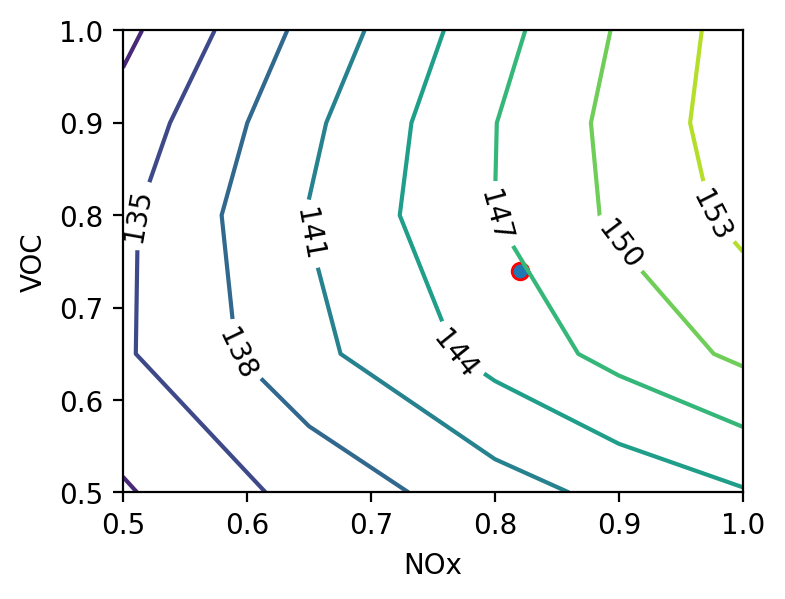
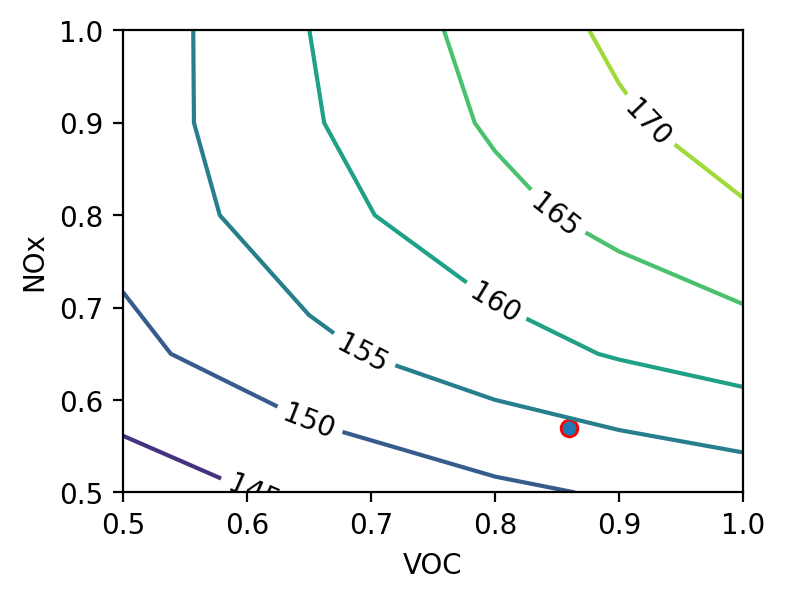
fix flex v0.1

diff --git a/main.py b/main.py
@@ -22,7 +22,7 @@ class GUI():
     # 设置窗口
     def set_init_window(self):
         self.main.title("快速评估模型v0.1")
-        w, h = 600, 700
+        w, h = 600, 640
         sw = self.main.winfo_screenwidth()
         sh = self.main.winfo_screenheight()
         x = (sw-w) // 2
@@ -61,19 +61,19 @@ class GUI():
 
         # 按钮
         self.compute_button = Button(
-            self.main, text="计算", bg="lightblue", command=self.compute)
-        self.compute_button.grid(row=3, column=0, sticky=NS)
+            self.main, text="计算绘图", bg="lightblue", command=self.compute,height=2)
+        self.compute_button.grid(row=3, column=1, rowspan=2)
 
         self.img_label = Label(self.main, text="平均MDA8", height=2)
-        self.img_label.grid(row=4, column=0, sticky=NSEW)
+        self.img_label.grid(row=5, column=0, sticky=NSEW)
 
         self.result_data_Text = Text(self.main, width=30, height=1)  # 处理结果展示
-        self.result_data_Text.grid(row=4, column=1, sticky=EW)
+        self.result_data_Text.grid(row=5, column=1, sticky=EW)
 
-        # 按钮
-        self.plot_button = Button(
-            self.main, text="绘图", bg="lightblue", command=self.plot)
-        self.plot_button.grid(row=5, column=0, sticky=NS)
+        # # 按钮
+        # self.plot_button = Button(
+        #     self.main, text="绘图", bg="lightblue", command=self.plot)
+        # self.plot_button.grid(row=5, column=0, sticky=NS)
 
         self.ekma_label = Label(self.main, text="EKMA", height=2)
         self.ekma_label.grid(row=6, column=0, rowspan=3, sticky=NSEW)
@@ -87,13 +87,13 @@ class GUI():
     # 功能函数
 
     def NOX_change(self, e):
-        self.write_log_to_Text(f"NOX比例为=>{self.NOX_scale.get()}")
+        self.write_log_to_Text(f"NOX比例为{self.NOX_scale.get()}")
 
     def VOC_change(self, e):
-        self.write_log_to_Text(f"VOC比例为=>{self.VOC_scale.get()}")
+        self.write_log_to_Text(f"VOC比例为{self.VOC_scale.get()}")
 
     def reset_mat(self, e):
-        self.write_log_to_Text(f"选择的城市为=>{self.sel_city.get()}")
+        self.write_log_to_Text(f"选择的城市为{self.sel_city.get()}")
         self.mat = None
 
     def get_city_dict(self):
@@ -112,7 +112,7 @@ class GUI():
         lat = np.loadtxt("data/lat.txt")
 
         city = self.city_dict[self.sel_city.get()]
-        self.write_log_to_Text(f"城市经纬度为=>LON:{city['LON']},LAT:{city['LAT']}")
+        self.write_log_to_Text(f"城市经纬度为LON:{city['LON']},LAT:{city['LAT']}")
         r2 = (lat - city['LAT'])**2 + (lon - city['LON'])**2
         return np.unravel_index(r2.argmin(), r2.shape)
 
@@ -135,8 +135,8 @@ class GUI():
     def compute(self):
         self.load_mat()
 
-        self.write_log_to_Text(f"NOx比例为=>{self.NOX_scale.get()}")
-        self.write_log_to_Text(f"VOX比例为=>{self.VOC_scale.get()}")
+        self.write_log_to_Text(f"NOx比例为{self.NOX_scale.get()}")
+        self.write_log_to_Text(f"VOX比例为{self.VOC_scale.get()}")
 
         interpolator = RegularGridInterpolator(
             np.array((self.NOX, self.VOC)), self.mat)
@@ -144,15 +144,16 @@ class GUI():
         res = interpolator(
             np.array([self.NOX_scale.get(), self.VOC_scale.get()]))
 
-        self.write_log_to_Text(f"计算结果为=>{res:.4f} ug/m3")
+        self.write_log_to_Text(f"计算结果为{res:.4f} ug/m3")
         self.result_data_Text.delete(1.0, END)
         self.result_data_Text.insert(1.0, f"{res:.4f} ug/m3")
+        self.plot()
 
     # 获取当前时间
 
     def get_current_time(self):
-        current_time = time.strftime(
-            '%Y-%m-%d %H:%M:%S', time.localtime(time.time()))
+        # current_time = time.strftime('%Y-%m-%d %H:%M:%S', time.localtime(time.time()))
+        current_time = time.strftime('%H:%M:%S', time.localtime(time.time()))
         return current_time
 
     def plot(self):
@@ -165,22 +166,23 @@ class GUI():
         fig = plt.figure(figsize=(4, 3))
         ax = fig.add_subplot(111)
 
-        X, Y = np.meshgrid(self.NOX, self.VOC,)
-        ct = ax.contour(X, Y, self.mat)
+        X, Y = np.meshgrid(self.VOC,self.NOX,)
+        ct = ax.contour(X,Y, self.mat)
         # plt.colorbar(ct)
-        ax.set_xlabel("NOx")
-        ax.set_ylabel("VOC")
+        ax.set_xlabel("VOC")
+        ax.set_ylabel("NOx")
 
-        ax.scatter(nox,voc,marker="o", edgecolors="red", c=None)
+        ax.scatter(voc,nox,marker="o", edgecolors="red", c=None)
+
         ax.clabel(ct, fontsize=10, colors='k', fmt="%.0f")
         plt.savefig(".ekma.png", dpi=200, bbox_inches='tight')
-        self.write_log_to_Text(f"绘图完成,加载中")
+        self.write_log_to_Text(f"绘图完成")
 
         photo = Image.open(".ekma.png")  # file：t图片路径
-        v = photo.resize((400, 300), Image.ANTIALIAS)
+        v = photo.resize((280, 240), Image.ANTIALIAS)
         photo = ImageTk.PhotoImage(v)
-        imgLabel = Label(self.main, image=photo, width=400,
-                         height=300)  # 把图片整合到标签类中
+        imgLabel = Label(self.main, image=photo, width=280,
+                         height=240)  # 把图片整合到标签类中
         imgLabel.img = photo
         imgLabel.grid(row=6, column=1, rowspan=2)  # 自动对齐
 
